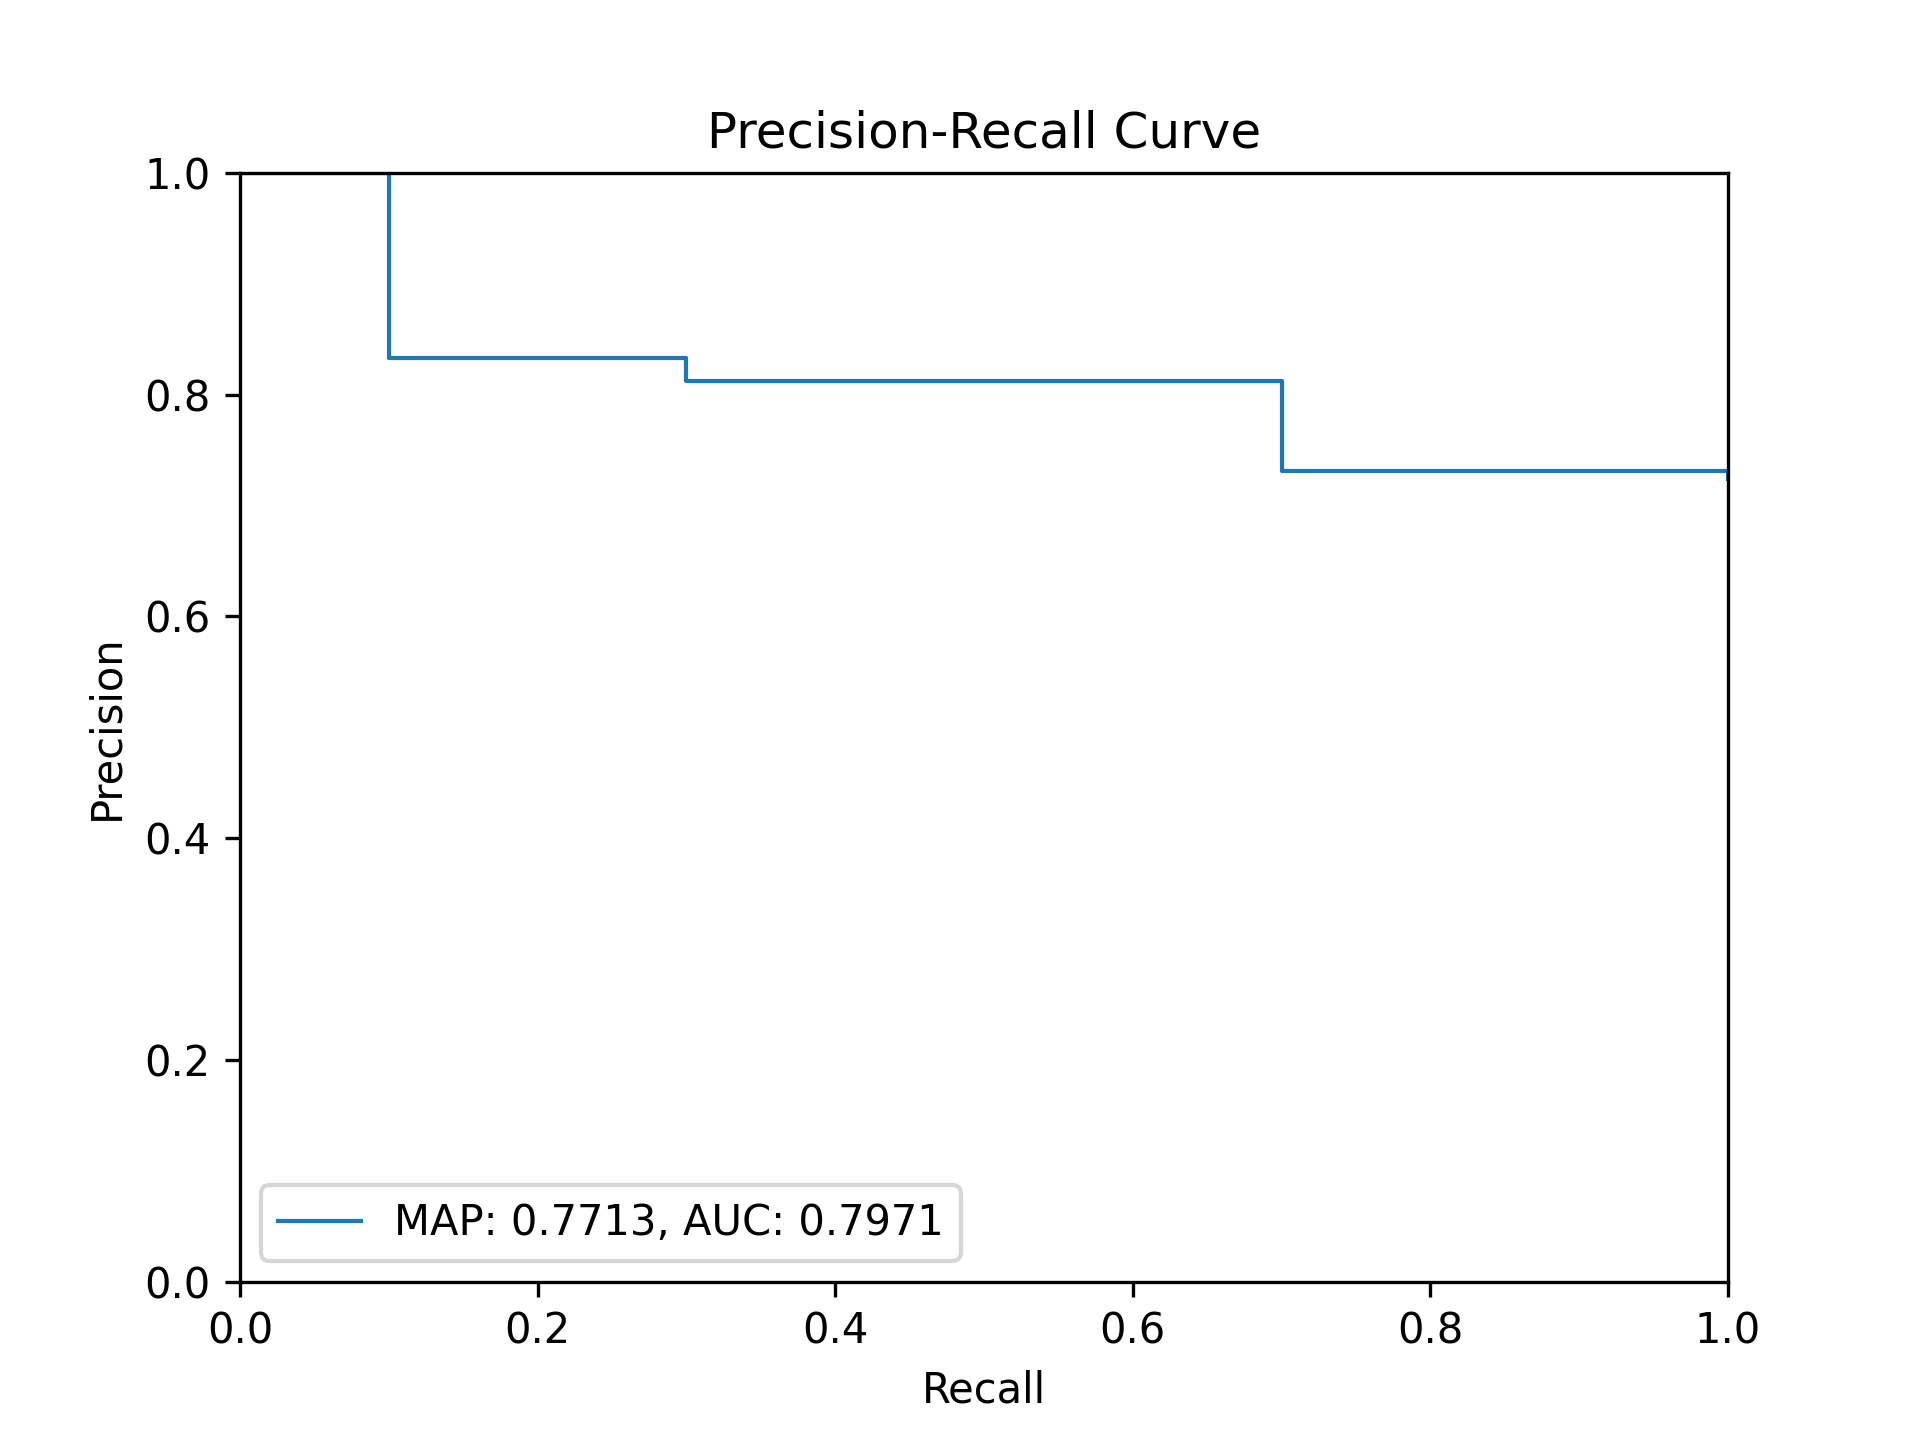
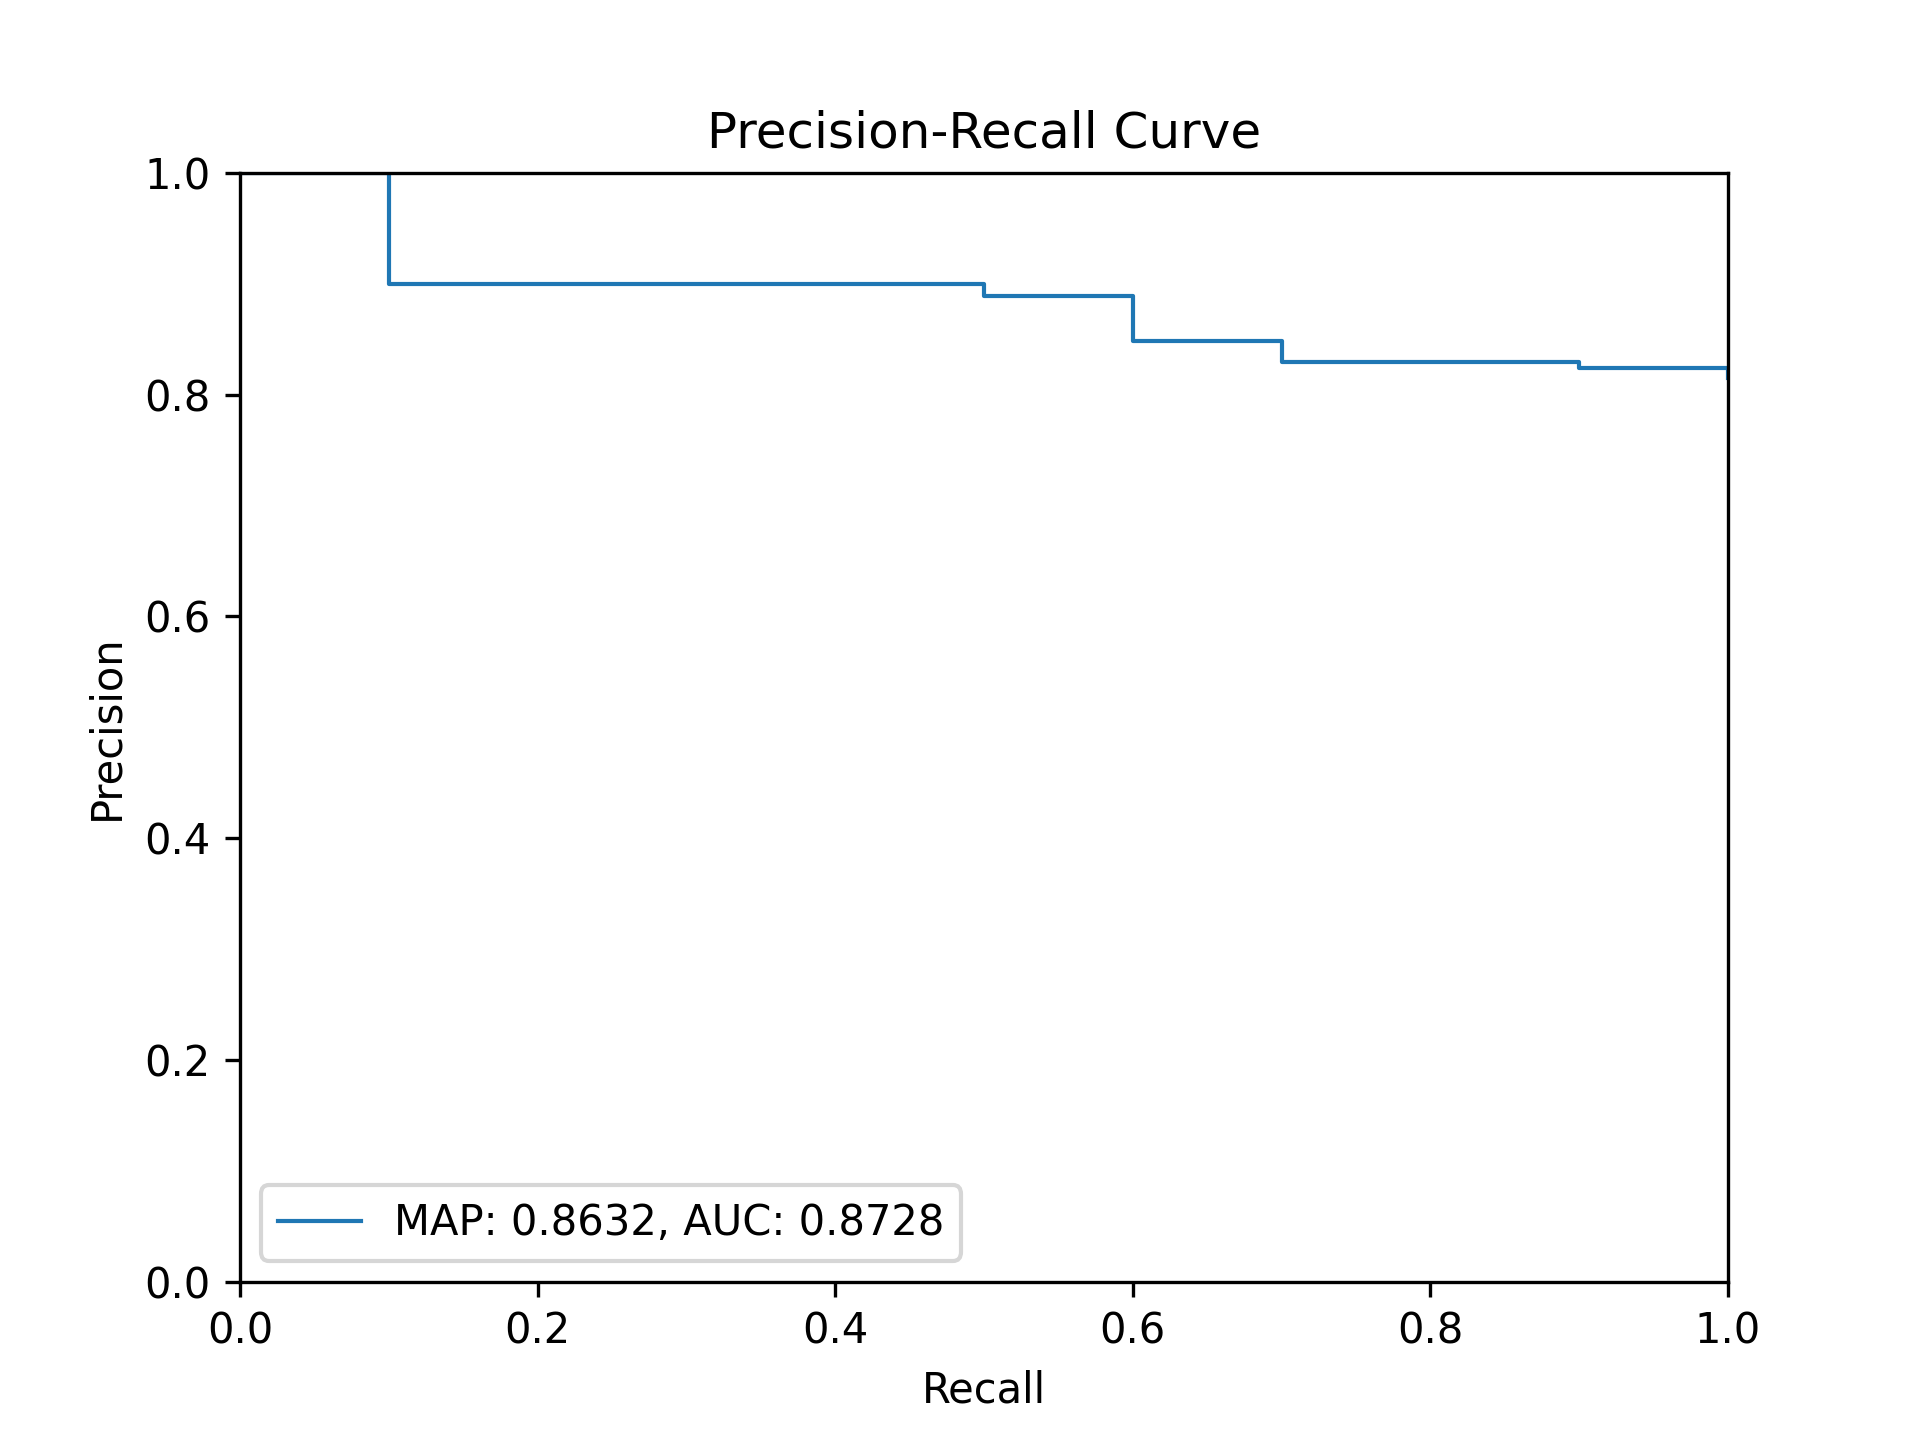
update evaluation in report

diff --git a/docs/report_template/sample-sigconf-authordraft.tex b/docs/report_template/sample-sigconf-authordraft.tex
@@ -632,13 +632,13 @@ In this section, the results for every single query in both systems will be exam
 		\hline
 		Query& Simple P@10 & Advanced P@10 \\
 		\hline
-		Q1 & 0.9 & 0.5 \\
+		Q1 & 0.8 & 0.9 \\
 		\hline
-		Q2 & 0.7 & 0.4 \\
+		Q2 & 0.9 & 1 \\
 		\hline
-		Q3 & 0.7 & 0.2 \\
+		Q3 & 0.7 & 1 \\
 		\hline
-		Q4 & 0.7 & 0 \\
+		Q4 & 1 & 1 \\
 		\hline
 	\end{tabular}
 	\caption{P@10 Results}
@@ -651,19 +651,23 @@ The Average Precision is calculated for each query result, and the mean of these
 		\hline
 		Query& Simple MAP & Advanced MAP \\
 		\hline
-		Q1 & 0.7986 & 0.8711 \\
+		Q1 & 0.8661 & 0.8934 \\
 		\hline
-		Q2 & 0.7713 & 0.7203 \\
+		Q2 & 0.8632 & 0.8719 \\
 		\hline
-		Q3 & 0.4004 & 0.4460 \\
+		Q3 & 0.3805 & 0.5361 \\
 		\hline
-		Q4 & 0.3694 & 0.5330 \\
+		Q4 & 0.3329 & 0.4095 \\
 		\hline
 	\end{tabular}
 	\caption{MAP Results}
 	\label{tab:map_results}
 \end{table}
-Contrary to what we expected, the values of the P@k and MAP metrics were way lower in the advanced system (represented with an \textit{A}). However, when manually analysing the documents returned in the response, it became clear that the problem was most likely the way the QRELS files were built rather than the system itself. Even so, it makes it very hard to make a legitimate cross-system performance comparison and discussion.
+As we expected, the values of the P@k and MAP in the advanced
+system (represented with an A) consistently outperformed or at
+least matched those of the simple system (represented with an
+S), showing there’s a clear advantage to using the boosted query
+system.
 
 \section{Conclusions}
 
